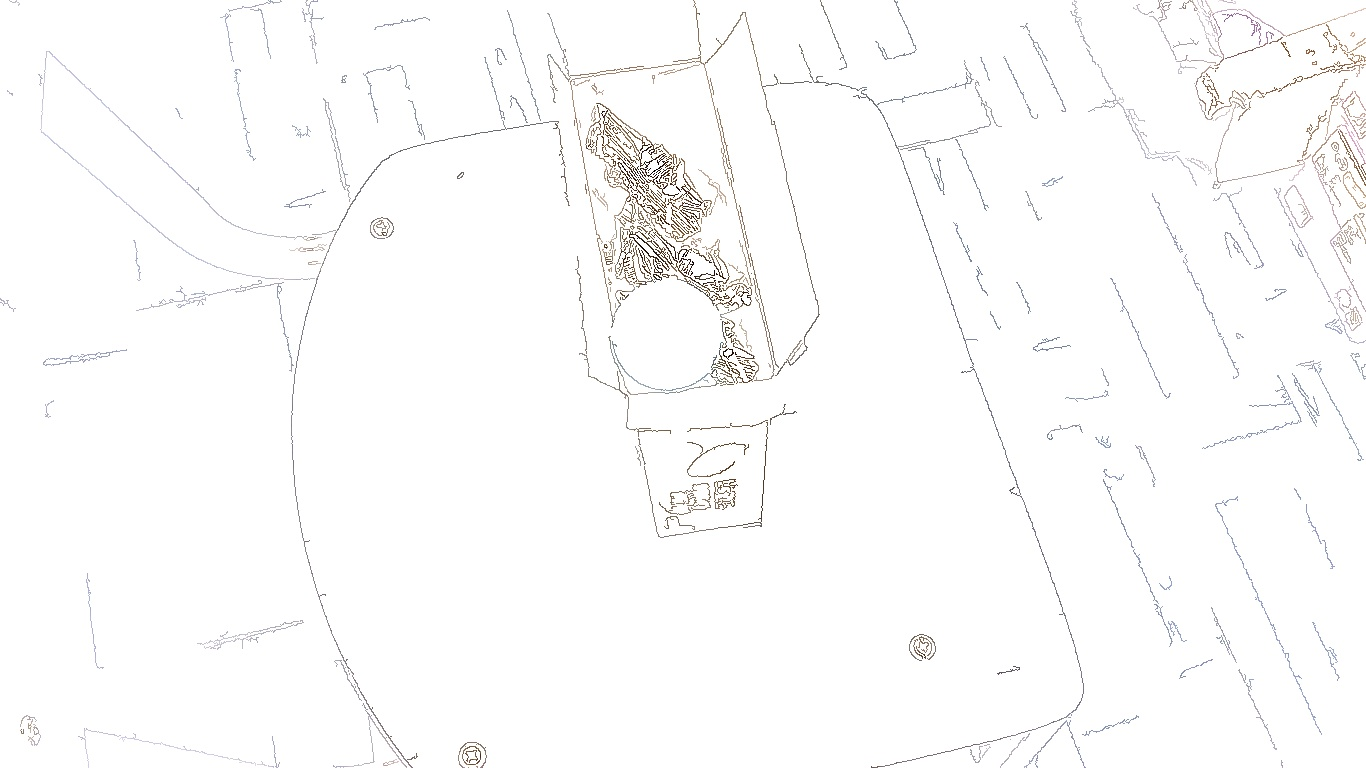
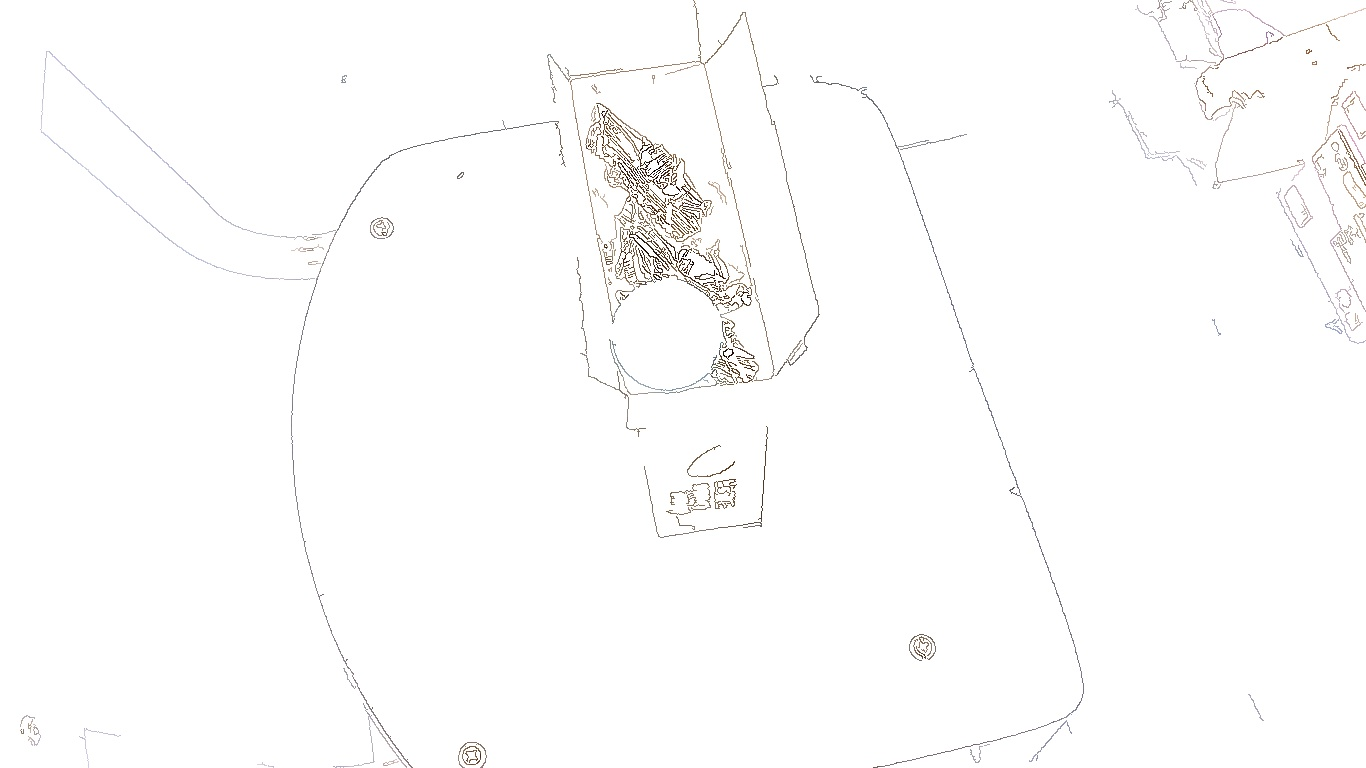
jy

diff --git a/Edge.cpp b/Edge.cpp
@@ -6,6 +6,7 @@
 
 using namespace std;
 IplImage* img = NULL;
+IplImage* img_tmp2 = NULL;
 IplImage* img_gray = NULL;
 IplImage* img_edge = NULL;//edge img without colour
 IplImage* img_cedge = NULL;//edge img with colour
@@ -17,7 +18,7 @@ char TbarName[] = "Threshold";
 void on_Tbar(int h)
 {
 	//doubt? 
-	//cvSmooth(img_gray, img_tmp, CV_BLUR, 3, 3, 0, 0);
+	//cvSmooth(img_gray, img_tmp2, CV_BLUR, 3, 3, 0, 0);
 	
 	//canny changeable
 	cvCanny(img_gray, img_edge, (float)h, (float)h*3, 3);
@@ -30,8 +31,8 @@ void on_Tbar(int h)
 	cvShowImage(WindName, img_cedge);
 	
 	//save the img
-	//cvNot(img_cedge, img_tmp);
-	//cvSaveImage("outP.jpg", img_tmp);
+	cvNot(img_cedge, img_tmp);
+	cvSaveImage("outP.jpg", img_tmp);
 	
 
 }
@@ -48,6 +49,7 @@ void edge(char *fileN)
 
 	//create image
 	img_tmp = cvCreateImage(cvGetSize(img), IPL_DEPTH_8U, 3);
+	img_tmp2 = cvCreateImage(cvGetSize(img), IPL_DEPTH_8U, 1);
 	img_edge = cvCreateImage(cvGetSize(img), IPL_DEPTH_8U, 1);
 	img_gray = cvCreateImage(cvGetSize(img), IPL_DEPTH_8U, 1);
 	img_cedge = cvCreateImage(cvGetSize(img), IPL_DEPTH_8U, 3);

diff --git a/README.md b/README.md
@@ -5,8 +5,6 @@ Edge.cpp	可以用的提取边缘的代码（c语言格式）
 
 Circle.cpp	找圆代码，只对out2_1.jpg有效（c++语言格式）
 
-try.cpp		可以用来测试环境配置是否成功
-
 ##Test
 t2_1.jpg	1366*768
 
